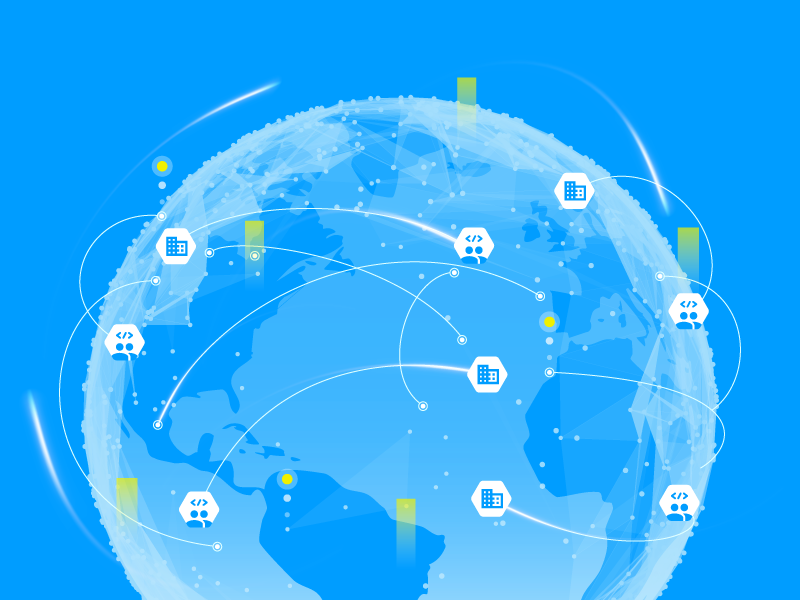
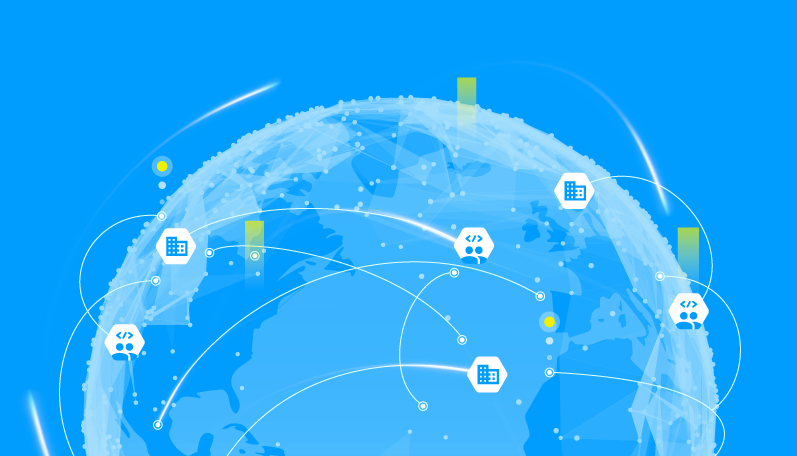
Slider Nav working and styled, arrows and content need fixing

diff --git a/css/main.min.css b/css/main.min.css
@@ -1,1 +1,1 @@
-button,hr,input{overflow:visible}progress,sub,sup{vertical-align:baseline}.unslider-fade,.unslider-wrap,sub,sup{position:relative}details,figure img{display:block}.btn,a{background-color:transparent}html{line-height:1.15;-webkit-text-size-adjust:100%}h1{font-size:2em;margin:.67em 0}hr{-webkit-box-sizing:content-box;box-sizing:content-box;height:0}code,kbd,pre,samp{font-family:monospace,monospace;font-size:1em}abbr[title]{border-bottom:none;-webkit-text-decoration:underline dotted;text-decoration:underline dotted}.btn,.footer-item,.mainNav-item{text-decoration:none}b,strong{font-weight:bolder}small{font-size:80%}sub,sup{font-size:75%;line-height:0}sub{bottom:-.25em}sup{top:-.5em}img{border-style:none}button,input,optgroup,select,textarea{font-family:inherit;font-size:100%;line-height:1.15;margin:0}.unslider,textarea{overflow:auto}button,select{text-transform:none}.btn,.tag{text-transform:uppercase}[type=button],[type=reset],[type=submit],button{-webkit-appearance:button}[type=button]::-moz-focus-inner,[type=reset]::-moz-focus-inner,[type=submit]::-moz-focus-inner,button::-moz-focus-inner{border-style:none;padding:0}[type=button]-moz-focusring,[type=reset]-moz-focusring,[type=submit]-moz-focusring,button:-moz-focusring{outline:ButtonText dotted 1px}fieldset{padding:.35em .75em .625em}legend{-webkit-box-sizing:border-box;box-sizing:border-box;color:inherit;display:table;max-width:100%;padding:0;white-space:normal}[type=checkbox],[type=radio]{-webkit-box-sizing:border-box;box-sizing:border-box;padding:0}[type=number]::-webkit-inner-spin-button,[type=number]::-webkit-outer-spin-button{height:auto}[type=search]{-webkit-appearance:textfield;outline-offset:-2px}[type=search]::-webkit-search-decoration{-webkit-appearance:none}::-webkit-file-upload-button{-webkit-appearance:button;font:inherit}.title,.title--main,p{letter-spacing:0;line-height:30px}.tag,.title,.title--main,p{font-family:Roboto;color:#13293f}summary{display:list-item}[hidden],template{display:none}.unslider{margin:0;padding:0}.unslider-wrap.unslider-carousel>li{float:left}.unslider-vertical>ul{height:100%}.unslider-vertical li{float:none;width:100%}.unslider-fade .unslider-wrap li{position:absolute;left:0;top:0;right:0;z-index:8}.unslider-fade .unslider-wrap li.unslider-active{z-index:10}.unslider li,.unslider ol,.unslider ul{list-style:none;margin:0;padding:0;border:none}.unslider-arrow{left:20px;z-index:2;cursor:pointer}.unslider-arrow.next{left:auto;right:20px}.title{font-size:1.25rem}.title--main{font-size:1.5rem}p{font-size:1rem}.tag{font-size:.87rem;letter-spacing:.5px;line-height:21px}.tag--primary{color:#008df2}.tag--highlight{color:#f0f000}*,:after,:before{-webkit-box-sizing:border-box;box-sizing:border-box}body{margin:0;-webkit-font-smoothing:antialiased;font-family:Roboto,sans-serif;text-rendering:optimizeLegibility;font-size:1rem}figure{padding:0;margin:0}figure img{width:100%}.btn{border:none;display:inline-block;border-radius:4px;height:2.5rem}.callToAction,.feature{display:-webkit-box;display:-ms-flexbox}.btn--primary{color:#fff;background-color:#008df2}.callToAction{width:100%;display:flex;-webkit-box-pack:justify;-ms-flex-pack:justify;justify-content:space-between;-webkit-box-align:center;-ms-flex-align:center;align-items:center;position:relative;height:500px}.callToAction-col{width:calc(99.9% * 1/2 - (30px - 30px * 1/2));text-align:center;-webkit-box-align:center;-ms-flex-align:center;align-items:center}.callToAction-col:nth-child(1n){float:left;margin-right:30px;clear:none}.callToAction-col:last-child{margin-right:0}.callToAction-col:nth-child(2n){margin-right:0;float:right}.callToAction-col:nth-child(2n+1){clear:both}.feature{display:flex;-webkit-box-align:center;-ms-flex-align:center;align-items:center;-webkit-box-pack:justify;-ms-flex-pack:justify;justify-content:space-between}.features,.footer{padding-left:calc(50% - (1140px / 2));padding-right:calc(50% - (1140px / 2));display:-webkit-box;display:-ms-flexbox}.feature-description{width:calc(99.9% * 1/3 - (30px - 30px * 1/3));margin-right:auto}.feature-description:nth-child(1n){float:left;margin-right:30px;clear:none}.feature-description:last-child{margin-right:0}.feature-description:nth-child(3n){margin-right:0;float:right}.feature-description:nth-child(3n+1){clear:both}.feature-img{width:calc(99.9% * 2/3 - (30px - 30px * 2/3))}.feature-img:nth-child(1n){float:left;margin-right:30px;clear:none}.feature-img:last-child{margin-right:0}.feature-img:nth-child(3n){margin-right:0;float:right}.feature-img:nth-child(3n+1){clear:both}.features{display:flex;-ms-flex-wrap:wrap;flex-wrap:wrap;-webkit-box-align:center;-ms-flex-align:center;align-items:center}.features--center{display:inline-block;text-align:center;background:url(/img/eliot-collaboration.png) no-repeat #008df2;height:100vh}.footer{display:flex;-ms-flex-wrap:wrap;flex-wrap:wrap;background-color:transparent;padding-top:1.5rem;padding-bottom:1.5rem;-webkit-box-align:center;-ms-flex-align:center;align-items:center;position:relative;overflow:hidden}.header,.mainNav{display:-webkit-box;display:-ms-flexbox;-webkit-box-align:center}.footer ul{list-style:none;padding-left:0}.header,.walkThrough{padding-left:calc(50% - (1140px / 2));padding-right:calc(50% - (1140px / 2))}.footer-item{color:#3e78b3}.footer-item:hover{color:#0f3b66}.footer:before{content:'';height:800px;background-color:#e6edf2;position:absolute;top:300px;left:0;right:0;-webkit-transform:skew(0,-12deg);transform:skew(0,-12deg);z-index:-100}.footer-col{padding-top:3%;width:calc(99.9% * 1/6 - (30px - 30px * 1/6))}.footer-col:nth-child(1n){float:left;margin-right:30px;clear:none}.footer-col:last-child{margin-right:0}.footer-col:nth-child(6n){margin-right:0;float:right}.footer-col:nth-child(6n+1){clear:both}.footer-col--brand{margin-right:auto}.header{display:flex;-ms-flex-align:center;align-items:center;-webkit-box-pack:justify;-ms-flex-pack:justify;justify-content:space-between;position:fixed;top:2rem;right:0;left:0}.logo{display:block}.logo--footer,.logo--header{max-width:165px}.mainNav{display:flex;-ms-flex-align:center;align-items:center;padding-top:1%}.unslider-nav,.unslider-nav ol{display:-webkit-box;display:-ms-flexbox}.social,.walkThrough{-webkit-box-align:center}.mainNav-item{margin-left:.75rem;margin-right:.75rem;color:#b8cfe6}.social{-ms-flex-align:center;align-items:center}.social-icon{margin-right:1.5rem}.unslider-nav{display:flex;color:#fff;text-align:center}.unslider-nav ol{display:flex;margin:auto}.unslider-arrow{position:absolute;top:20}.walkThrough{background-color:#008df2;-ms-flex-align:center;align-items:center}.walkThrough li{display:-webkit-box;display:-ms-flexbox;display:flex}.walkThrough-description{-webkit-box-align:center;-ms-flex-align:center;align-items:center;margin:auto;color:#fff}.walkThrough-img{width:calc(99.9% * 2/3 - (30px - 30px * 2/3))}.walkThrough-img:nth-child(1n){float:left;margin-right:30px;clear:none}.walkThrough-img:last-child{margin-right:0}.walkThrough-img:nth-child(3n){margin-right:0;float:right}.walkThrough-img:nth-child(3n+1){clear:both}.walkThrough-img img{width:700px}
+button,hr,input{overflow:visible}progress,sub,sup{vertical-align:baseline}.unslider-fade,.unslider-wrap,sub,sup{position:relative}details,figure img{display:block}.footer ul,.unslider-nav ol{list-style:none}.about,.callToAction-col,.features--center,.home-main,.unslider-nav ol{text-align:center}html{line-height:1.15;-webkit-text-size-adjust:100%}h1{font-size:2em;margin:.67em 0}hr{-webkit-box-sizing:content-box;box-sizing:content-box;height:0}code,kbd,pre,samp{font-family:monospace,monospace;font-size:1em}a{background-color:transparent}abbr[title]{border-bottom:none;-webkit-text-decoration:underline dotted;text-decoration:underline dotted}.btn,.footer-item,.mainNav-item{text-decoration:none}b,strong{font-weight:bolder}small{font-size:80%}sub,sup{font-size:75%;line-height:0}sub{bottom:-.25em}sup{top:-.5em}img{border-style:none}button,input,optgroup,select,textarea{font-family:inherit;font-size:100%;line-height:1.15;margin:0}.unslider,textarea{overflow:auto}button,select{text-transform:none}.btn,.tag{text-transform:uppercase}[type=button],[type=reset],[type=submit],button{-webkit-appearance:button}[type=button]::-moz-focus-inner,[type=reset]::-moz-focus-inner,[type=submit]::-moz-focus-inner,button::-moz-focus-inner{border-style:none;padding:0}[type=button]-moz-focusring,[type=reset]-moz-focusring,[type=submit]-moz-focusring,button:-moz-focusring{outline:ButtonText dotted 1px}fieldset{padding:.35em .75em .625em}legend{-webkit-box-sizing:border-box;box-sizing:border-box;color:inherit;display:table;max-width:100%;padding:0;white-space:normal}[type=checkbox],[type=radio]{-webkit-box-sizing:border-box;box-sizing:border-box;padding:0}[type=number]::-webkit-inner-spin-button,[type=number]::-webkit-outer-spin-button{height:auto}[type=search]{-webkit-appearance:textfield;outline-offset:-2px}[type=search]::-webkit-search-decoration{-webkit-appearance:none}::-webkit-file-upload-button{-webkit-appearance:button;font:inherit}.title,.title--main,p{letter-spacing:0;line-height:30px}.tag,.title,.title--main,p{font-family:Roboto;color:#13293f}summary{display:list-item}[hidden],template{display:none}.unslider{margin:0;padding:0}.unslider-wrap.unslider-carousel>li{float:left}.unslider-vertical>ul{height:100%}.unslider-vertical li{float:none;width:100%}.unslider-fade .unslider-wrap li{position:absolute;left:0;top:0;right:0;z-index:8}.unslider-fade .unslider-wrap li.unslider-active{z-index:10}.unslider li,.unslider ol,.unslider ul{list-style:none;margin:0;padding:0;border:none}.unslider-arrow{left:20px;z-index:2;cursor:pointer}.unslider-arrow.next{left:auto;right:20px}.title{font-size:1.25rem}.title--main{font-size:1.5rem}p{font-size:1rem}.tag{font-size:.87rem;letter-spacing:.5px;line-height:21px}.tag--primary{color:#008df2}.tag--highlight{color:#f0f000}*,:after,:before{-webkit-box-sizing:border-box;box-sizing:border-box}body{margin:0;-webkit-font-smoothing:antialiased;font-family:Roboto,sans-serif;text-rendering:optimizeLegibility;font-size:1rem}figure{padding:0;margin:0}figure img{width:100%}.about{padding-left:calc(50% - (1140px / 2));padding-right:calc(50% - (1140px / 2));height:100vh;background:url(/img/eliot-about.png) center bottom no-repeat}.about .title{color:#008df2}.btn{background-color:transparent;border:none;display:inline-block;border-radius:4px;height:2.5rem}.callToAction,.feature{display:-webkit-box;display:-ms-flexbox}.btn--primary{color:#fff;background-color:#008df2}.callToAction{width:100%;display:flex;-webkit-box-pack:justify;-ms-flex-pack:justify;justify-content:space-between;-webkit-box-align:center;-ms-flex-align:center;align-items:center;position:relative;height:500px}.callToAction-col{width:calc(99.9% * 1/2 - (30px - 30px * 1/2));-webkit-box-align:center;-ms-flex-align:center;align-items:center}.feature,.header{-webkit-box-align:center}.callToAction-col:nth-child(1n){float:left;margin-right:30px;clear:none}.callToAction-col:last-child{margin-right:0}.callToAction-col:nth-child(2n){margin-right:0;float:right}.callToAction-col:nth-child(2n+1){clear:both}.feature{display:flex;-ms-flex-align:center;align-items:center;-webkit-box-pack:justify;-ms-flex-pack:justify;justify-content:space-between}.features,.footer{padding-left:calc(50% - (1140px / 2));display:-webkit-box;display:-ms-flexbox;padding-right:calc(50% - (1140px / 2))}.feature-description{width:calc(99.9% * 1/3 - (30px - 30px * 1/3));margin-right:auto}.feature-description:nth-child(1n){float:left;margin-right:30px;clear:none}.feature-description:last-child{margin-right:0}.feature-description:nth-child(3n){margin-right:0;float:right}.feature-description:nth-child(3n+1){clear:both}.feature-img{width:calc(99.9% * 2/3 - (30px - 30px * 2/3))}.feature-img:nth-child(1n){float:left;margin-right:30px;clear:none}.feature-img:last-child{margin-right:0}.feature-img:nth-child(3n){margin-right:0;float:right}.feature-img:nth-child(3n+1){clear:both}.features{display:flex;-ms-flex-wrap:wrap;flex-wrap:wrap;-webkit-box-align:center;-ms-flex-align:center;align-items:center}.features--center{display:inline-block;background:url(/img/eliot-collaboration.png) center bottom no-repeat #008df2;height:100vh}.features--center .tag{color:#fff}.footer{display:flex;-ms-flex-wrap:wrap;flex-wrap:wrap;background-color:transparent;padding-top:1.5rem;padding-bottom:1.5rem;-webkit-box-align:center;-ms-flex-align:center;align-items:center;position:relative;overflow:hidden}.footer ul{padding-left:0}.footer-item{color:#3e78b3}.footer-item:hover{color:#0f3b66}.footer:before{content:'';height:800px;background-color:#e6edf2;position:absolute;top:300px;left:0;right:0;-webkit-transform:skew(0,-12deg);transform:skew(0,-12deg);z-index:-100}.footer-col{padding-top:3%;width:calc(99.9% * 1/6 - (30px - 30px * 1/6))}.footer-col:nth-child(1n){float:left;margin-right:30px;clear:none}.footer-col:last-child{margin-right:0}.footer-col:nth-child(6n){margin-right:0;float:right}.footer-col:nth-child(6n+1){clear:both}.footer-col--brand{margin-right:auto}.header{padding-left:calc(50% - (1140px / 2));padding-right:calc(50% - (1140px / 2));display:-webkit-box;display:-ms-flexbox;display:flex;-ms-flex-align:center;align-items:center;-webkit-box-pack:justify;-ms-flex-pack:justify;justify-content:space-between;position:fixed;top:2rem;right:0;left:0}.home-main,.mainNav{-webkit-box-align:center}.home-main{background:url(/img/main.png) no-repeat;-ms-flex-align:center;align-items:center}.logo{display:block}.logo--footer,.logo--header{max-width:165px}.mainNav{display:-webkit-box;display:-ms-flexbox;display:flex;-ms-flex-align:center;align-items:center;padding-top:1%}.social,.walkThrough{-webkit-box-align:center}.mainNav-item{margin-left:.75rem;margin-right:.75rem;color:#b8cfe6}.social{-ms-flex-align:center;align-items:center}.social-icon{margin-right:1.5rem}.unslider-nav{width:100%;border-bottom:1px solid #fff;padding:30px 0;position:absolute;top:0}.unslider-nav ol li{display:inline-block;cursor:pointer;color:#fff;margin:0 20px;position:relative;z-index:2}.unslider-nav ol li::before{background-color:#fff;display:inline-block;width:30px;height:30px;border-radius:50%;content:" ";position:relative;left:24px;top:8px;z-index:-1}.unslider-arrow{position:absolute;top:50%;-webkit-transform:translateY(-50%);transform:translateY(-50%)}.walkThrough .unslider,.walkThrough-slider{position:relative}.unslider-active{font-weight:900}.walkThrough{background-color:#008df2;-ms-flex-align:center;align-items:center}.walkThrough-description{-webkit-box-align:center;-ms-flex-align:center;align-items:center;margin:auto;color:#fff}.walkThrough-img{width:calc(99.9% * 2/3 - (30px - 30px * 2/3))}.walkThrough-img:nth-child(1n){float:left;margin-right:30px;clear:none}.walkThrough-img:last-child{margin-right:0}.walkThrough-img:nth-child(3n){margin-right:0;float:right}.walkThrough-img:nth-child(3n+1){clear:both}.walkThrough-img img{width:700px}.walkThrough-slider>ul{margin-top:100px}

diff --git a/js/main.min.js b/js/main.min.js
@@ -1,1 +1,1 @@
-!function(t){"object"==typeof module&&"object"==typeof module.exports?t(require("jquery")):"function"==typeof define&&define.amd?define([],t(window.jQuery)):t(window.jQuery)}(function(s){if(!s)return console.warn("Unslider needs jQuery");s.Unslider=function(t,n){var o=this;return o._="unslider",o.defaults={autoplay:!1,delay:3e3,speed:750,easing:"swing",keys:{prev:37,next:39},nav:!0,arrows:{prev:'<a class="'+o._+'-arrow prev">Prev</a>',next:'<a class="'+o._+'-arrow next">Next</a>'},animation:"horizontal",selectors:{container:"ul:first",slides:"li"},animateHeight:!1,activeClass:o._+"-active",swipe:!0,swipeThreshold:.2},o.$context=t,o.options={},o.$parent=null,o.$container=null,o.$slides=null,o.$nav=null,o.$arrows=[],o.total=0,o.current=0,o.prefix=o._+"-",o.eventSuffix="."+o.prefix+~~(2e3*Math.random()),o.interval=[],o.init=function(t){return o.options=s.extend({},o.defaults,t),o.$container=o.$context.find(o.options.selectors.container).addClass(o.prefix+"wrap"),o.$slides=o.$container.children(o.options.selectors.slides),o.setup(),s.each(["nav","arrows","keys","infinite"],function(t,n){o.options[n]&&o["init"+s._ucfirst(n)]()}),jQuery.event.special.swipe&&o.options.swipe&&o.initSwipe(),o.options.autoplay&&o.start(),o.calculateSlides(),o.$context.trigger(o._+".ready"),o.animate(o.options.index||o.current,"init")},o.setup=function(){o.$context.addClass(o.prefix+o.options.animation).wrap('<div class="'+o._+'" />'),o.$parent=o.$context.parent("."+o._),"static"===o.$context.css("position")&&o.$context.css("position","relative"),o.$context.css("overflow","hidden")},o.calculateSlides=function(){if(o.$slides=o.$container.children(o.options.selectors.slides),o.total=o.$slides.length,"fade"!==o.options.animation){var t="width";"vertical"===o.options.animation&&(t="height"),o.$container.css(t,100*o.total+"%").addClass(o.prefix+"carousel"),o.$slides.css(t,100/o.total+"%")}},o.start=function(){return o.interval.push(setTimeout(function(){o.next()},o.options.delay)),o},o.stop=function(){for(var t;t=o.interval.pop();)clearTimeout(t);return o},o.initNav=function(){var e=s('<nav class="'+o.prefix+'nav"><ol /></nav>');o.$slides.each(function(t){var n=this.getAttribute("data-nav")||t+1;s.isFunction(o.options.nav)&&(n=o.options.nav.call(o.$slides.eq(t),t,n)),e.children("ol").append('<li data-slide="'+t+'">'+n+"</li>")}),o.$nav=e.insertAfter(o.$context),o.$nav.find("li").on("click"+o.eventSuffix,function(){var t=s(this).addClass(o.options.activeClass);t.siblings().removeClass(o.options.activeClass),o.animate(t.attr("data-slide"))})},o.initArrows=function(){!0===o.options.arrows&&(o.options.arrows=o.defaults.arrows),s.each(o.options.arrows,function(t,n){o.$arrows.push(s(n).insertAfter(o.$context).on("click"+o.eventSuffix,o[t]))})},o.initKeys=function(){!0===o.options.keys&&(o.options.keys=o.defaults.keys),s(document).on("keyup"+o.eventSuffix,function(e){s.each(o.options.keys,function(t,n){e.which===n&&s.isFunction(o[t])&&o[t].call(o)})})},o.initSwipe=function(){var n=o.$slides.width();"fade"!==o.options.animation&&o.$container.on({movestart:function(t){if(t.distX>t.distY&&t.distX<-t.distY||t.distX<t.distY&&t.distX>-t.distY)return!!t.preventDefault();o.$container.css("position","relative")},move:function(t){o.$container.css("left",-100*o.current+100*t.distX/n+"%")},moveend:function(t){Math.abs(t.distX)/n>o.options.swipeThreshold?o[t.distX<0?"next":"prev"]():o.$container.animate({left:-100*o.current+"%"},o.options.speed/2)}})},o.initInfinite=function(){var e=["first","last"];s.each(e,function(t,n){o.$slides.push.apply(o.$slides,o.$slides.filter(':not(".'+o._+'-clone")')[n]().clone().addClass(o._+"-clone")["insert"+(0===t?"After":"Before")](o.$slides[e[~~!t]]()))})},o.destroyArrows=function(){s.each(o.$arrows,function(t,n){n.remove()})},o.destroySwipe=function(){o.$container.off("movestart move moveend")},o.destroyKeys=function(){s(document).off("keyup"+o.eventSuffix)},o.setIndex=function(t){return t<0&&(t=o.total-1),o.current=Math.min(Math.max(0,t),o.total-1),o.options.nav&&o.$nav.find('[data-slide="'+o.current+'"]')._active(o.options.activeClass),o.$slides.eq(o.current)._active(o.options.activeClass),o},o.animate=function(t,n){if("first"===t&&(t=0),"last"===t&&(t=o.total),isNaN(t))return o;o.options.autoplay&&o.stop().start(),o.setIndex(t),o.$context.trigger(o._+".change",[t,o.$slides.eq(t)]);var e="animate"+s._ucfirst(o.options.animation);return s.isFunction(o[e])&&o[e](o.current,n),o},o.next=function(){var t=o.current+1;return t>=o.total&&(t=o.options.noloop&&!o.options.infinite?o.total-1:0),o.animate(t,"next")},o.prev=function(){var t=o.current-1;return t<0&&(t=o.options.noloop&&!o.options.infinite?0:o.total-1),o.animate(t,"prev")},o.animateHorizontal=function(t){var n="left";return"rtl"===o.$context.attr("dir")&&(n="right"),o.options.infinite&&o.$container.css("margin-"+n,"-100%"),o.slide(n,t)},o.animateVertical=function(t){return o.options.animateHeight=!0,o.options.infinite&&o.$container.css("margin-top",-o.$slides.outerHeight()),o.slide("top",t)},o.slide=function(t,n){var e;(o.animateHeight(n),o.options.infinite)&&(n===o.total-1&&(e=o.total-3,n=-1),n===o.total-2&&(e=0,n=o.total-2),"number"==typeof e&&(o.setIndex(e),o.$context.on(o._+".moved",function(){o.current===e&&o.$container.css(t,-100*e+"%").off(o._+".moved")})));var i={};return i[t]=-100*n+"%",o._move(o.$container,i)},o.animateFade=function(t){o.animateHeight(t);var n=o.$slides.eq(t).addClass(o.options.activeClass);o._move(n.siblings().removeClass(o.options.activeClass),{opacity:0}),o._move(n,{opacity:1},!1)},o.animateHeight=function(t){o.options.animateHeight&&o._move(o.$context,{height:o.$slides.eq(t).outerHeight()},!1)},o._move=function(t,n,e,i){return!1!==e&&(e=function(){o.$context.trigger(o._+".moved")}),t._move(n,i||o.options.speed,o.options.easing,e)},o.init(n)},s.fn._active=function(t){return this.addClass(t).siblings().removeClass(t)},s._ucfirst=function(t){return(t+"").toLowerCase().replace(/^./,function(t){return t.toUpperCase()})},s.fn._move=function(){return this.stop(!0,!0),s.fn[s.fn.velocity?"velocity":"animate"].apply(this,arguments)},s.fn.unslider=function(o){return this.each(function(t,n){var e=s(n);if(!(s(n).data("unslider")instanceof s.Unslider)){if("string"==typeof o&&e.data("unslider")){o=o.split(":");var i=e.data("unslider")[o[0]];if(s.isFunction(i))return i.apply(e,o[1]?o[1].split(","):null)}return e.data("unslider",new s.Unslider(e,o))}})}}),$(document).ready(function(){jQuery(document).ready(function(t){t(".walkThrough-slider").unslider({autoplay:!0,infinite:!0,nav:!0,arrows:{prev:'<a class="unslider-arrow prev"><img src="/img/arrow-left.svg" alt="" /></a>',next:'<a class="unslider-arrow next"><img src="/img/arrow-right.svg" alt="" /></a>'}})})});
+!function(t){"object"==typeof module&&"object"==typeof module.exports?t(require("jquery")):"function"==typeof define&&define.amd?define([],t(window.jQuery)):t(window.jQuery)}(function(s){if(!s)return console.warn("Unslider needs jQuery");s.Unslider=function(t,n){var o=this;return o._="unslider",o.defaults={autoplay:!1,delay:3e3,speed:750,easing:"swing",keys:{prev:37,next:39},nav:!0,arrows:{prev:'<a class="'+o._+'-arrow prev">Prev</a>',next:'<a class="'+o._+'-arrow next">Next</a>'},animation:"horizontal",selectors:{container:"ul:first",slides:"li"},animateHeight:!1,activeClass:o._+"-active",swipe:!0,swipeThreshold:.2},o.$context=t,o.options={},o.$parent=null,o.$container=null,o.$slides=null,o.$nav=null,o.$arrows=[],o.total=0,o.current=0,o.prefix=o._+"-",o.eventSuffix="."+o.prefix+~~(2e3*Math.random()),o.interval=[],o.init=function(t){return o.options=s.extend({},o.defaults,t),o.$container=o.$context.find(o.options.selectors.container).addClass(o.prefix+"wrap"),o.$slides=o.$container.children(o.options.selectors.slides),o.setup(),s.each(["nav","arrows","keys","infinite"],function(t,n){o.options[n]&&o["init"+s._ucfirst(n)]()}),jQuery.event.special.swipe&&o.options.swipe&&o.initSwipe(),o.options.autoplay&&o.start(),o.calculateSlides(),o.$context.trigger(o._+".ready"),o.animate(o.options.index||o.current,"init")},o.setup=function(){o.$context.addClass(o.prefix+o.options.animation).wrap('<div class="'+o._+'" />'),o.$parent=o.$context.parent("."+o._),"static"===o.$context.css("position")&&o.$context.css("position","relative"),o.$context.css("overflow","hidden")},o.calculateSlides=function(){if(o.$slides=o.$container.children(o.options.selectors.slides),o.total=o.$slides.length,"fade"!==o.options.animation){var t="width";"vertical"===o.options.animation&&(t="height"),o.$container.css(t,100*o.total+"%").addClass(o.prefix+"carousel"),o.$slides.css(t,100/o.total+"%")}},o.start=function(){return o.interval.push(setTimeout(function(){o.next()},o.options.delay)),o},o.stop=function(){for(var t;t=o.interval.pop();)clearTimeout(t);return o},o.initNav=function(){var e=s('<nav class="'+o.prefix+'nav"><ol /></nav>');o.$slides.each(function(t){var n=this.getAttribute("data-nav")||t+1;s.isFunction(o.options.nav)&&(n=o.options.nav.call(o.$slides.eq(t),t,n)),e.children("ol").append('<li data-slide="'+t+'">'+n+"</li>")}),o.$nav=e.insertAfter(o.$context),o.$nav.find("li").on("click"+o.eventSuffix,function(){var t=s(this).addClass(o.options.activeClass);t.siblings().removeClass(o.options.activeClass),o.animate(t.attr("data-slide"))})},o.initArrows=function(){!0===o.options.arrows&&(o.options.arrows=o.defaults.arrows),s.each(o.options.arrows,function(t,n){o.$arrows.push(s(n).insertAfter(o.$context).on("click"+o.eventSuffix,o[t]))})},o.initKeys=function(){!0===o.options.keys&&(o.options.keys=o.defaults.keys),s(document).on("keyup"+o.eventSuffix,function(e){s.each(o.options.keys,function(t,n){e.which===n&&s.isFunction(o[t])&&o[t].call(o)})})},o.initSwipe=function(){var n=o.$slides.width();"fade"!==o.options.animation&&o.$container.on({movestart:function(t){if(t.distX>t.distY&&t.distX<-t.distY||t.distX<t.distY&&t.distX>-t.distY)return!!t.preventDefault();o.$container.css("position","relative")},move:function(t){o.$container.css("left",-100*o.current+100*t.distX/n+"%")},moveend:function(t){Math.abs(t.distX)/n>o.options.swipeThreshold?o[t.distX<0?"next":"prev"]():o.$container.animate({left:-100*o.current+"%"},o.options.speed/2)}})},o.initInfinite=function(){var e=["first","last"];s.each(e,function(t,n){o.$slides.push.apply(o.$slides,o.$slides.filter(':not(".'+o._+'-clone")')[n]().clone().addClass(o._+"-clone")["insert"+(0===t?"After":"Before")](o.$slides[e[~~!t]]()))})},o.destroyArrows=function(){s.each(o.$arrows,function(t,n){n.remove()})},o.destroySwipe=function(){o.$container.off("movestart move moveend")},o.destroyKeys=function(){s(document).off("keyup"+o.eventSuffix)},o.setIndex=function(t){return t<0&&(t=o.total-1),o.current=Math.min(Math.max(0,t),o.total-1),o.options.nav&&o.$nav.find('[data-slide="'+o.current+'"]')._active(o.options.activeClass),o.$slides.eq(o.current)._active(o.options.activeClass),o},o.animate=function(t,n){if("first"===t&&(t=0),"last"===t&&(t=o.total),isNaN(t))return o;o.options.autoplay&&o.stop().start(),o.setIndex(t),o.$context.trigger(o._+".change",[t,o.$slides.eq(t)]);var e="animate"+s._ucfirst(o.options.animation);return s.isFunction(o[e])&&o[e](o.current,n),o},o.next=function(){var t=o.current+1;return t>=o.total&&(t=o.options.noloop&&!o.options.infinite?o.total-1:0),o.animate(t,"next")},o.prev=function(){var t=o.current-1;return t<0&&(t=o.options.noloop&&!o.options.infinite?0:o.total-1),o.animate(t,"prev")},o.animateHorizontal=function(t){var n="left";return"rtl"===o.$context.attr("dir")&&(n="right"),o.options.infinite&&o.$container.css("margin-"+n,"-100%"),o.slide(n,t)},o.animateVertical=function(t){return o.options.animateHeight=!0,o.options.infinite&&o.$container.css("margin-top",-o.$slides.outerHeight()),o.slide("top",t)},o.slide=function(t,n){var e;(o.animateHeight(n),o.options.infinite)&&(n===o.total-1&&(e=o.total-3,n=-1),n===o.total-2&&(e=0,n=o.total-2),"number"==typeof e&&(o.setIndex(e),o.$context.on(o._+".moved",function(){o.current===e&&o.$container.css(t,-100*e+"%").off(o._+".moved")})));var i={};return i[t]=-100*n+"%",o._move(o.$container,i)},o.animateFade=function(t){o.animateHeight(t);var n=o.$slides.eq(t).addClass(o.options.activeClass);o._move(n.siblings().removeClass(o.options.activeClass),{opacity:0}),o._move(n,{opacity:1},!1)},o.animateHeight=function(t){o.options.animateHeight&&o._move(o.$context,{height:o.$slides.eq(t).outerHeight()},!1)},o._move=function(t,n,e,i){return!1!==e&&(e=function(){o.$context.trigger(o._+".moved")}),t._move(n,i||o.options.speed,o.options.easing,e)},o.init(n)},s.fn._active=function(t){return this.addClass(t).siblings().removeClass(t)},s._ucfirst=function(t){return(t+"").toLowerCase().replace(/^./,function(t){return t.toUpperCase()})},s.fn._move=function(){return this.stop(!0,!0),s.fn[s.fn.velocity?"velocity":"animate"].apply(this,arguments)},s.fn.unslider=function(o){return this.each(function(t,n){var e=s(n);if(!(s(n).data("unslider")instanceof s.Unslider)){if("string"==typeof o&&e.data("unslider")){o=o.split(":");var i=e.data("unslider")[o[0]];if(s.isFunction(i))return i.apply(e,o[1]?o[1].split(","):null)}return e.data("unslider",new s.Unslider(e,o))}})}}),$(document).ready(function(){jQuery(document).ready(function(t){t(".walkThrough-slider").unslider({autoplay:!1,infinite:!0,nav:!0,arrows:{prev:'<a class="unslider-arrow prev"><img src="/img/arrow-left.svg" alt="" /></a>',next:'<a class="unslider-arrow next"><img src="/img/arrow-right.svg" alt="" /></a>'}})})});

diff --git a/index.html b/index.html
@@ -5,11 +5,11 @@
   <meta name="viewport" content="width=device-width, initial-scale=1.0">
   <meta http-equiv="X-UA-Compatible" content="ie=edge">
   <!-- Google Tag Manager -->
-  <script>(function(w,d,s,l,i){w[l]=w[l]||[];w[l].push({'gtm.start':
+<!--   <script>(function(w,d,s,l,i){w[l]=w[l]||[];w[l].push({'gtm.start':
   new Date().getTime(),event:'gtm.js'});var f=d.getElementsByTagName(s)[0],
   j=d.createElement(s),dl=l!='dataLayer'?'&l='+l:'';j.async=true;j.src=
   'https://www.googletagmanager.com/gtm.js?id='+i+dl;f.parentNode.insertBefore(j,f);
-  })(window,document,'script','dataLayer','GTM-KG347VN');</script>
+  })(window,document,'script','dataLayer','GTM-KG347VN');</script> -->
   <!-- End Google Tag Manager -->
   <title>Valiot Website</title>
   <link href="https://fonts.googleapis.com/css?family=Roboto" rel="stylesheet">
@@ -17,8 +17,8 @@
 </head>
 <body>
   <!-- Google Tag Manager (noscript) -->
-  <noscript><iframe src="https://www.googletagmanager.com/ns.html?id=GTM-KG347VN"
-  height="0" width="0" style="display:none;visibility:hidden"></iframe></noscript>
+<!--   <noscript><iframe src="https://www.googletagmanager.com/ns.html?id=GTM-KG347VN"
+  height="0" width="0" style="display:none;visibility:hidden"></iframe></noscript> -->
   <!-- End Google Tag Manager (noscript) -->
   <header class="header">
   	<a class="logo" href="#0">
@@ -35,7 +35,7 @@
     </nav>
   </header>
 
-  <section class="main">
+  <section class="home-main">
   		<p class="tag">The easiest way into Industry 4.0</p>
   		<h1 class="title title--main">Start your digital transformation today</h1>
   		<button class="btn btn--secondary">Start free now</button>
@@ -43,32 +43,30 @@
 
 	<section class="about">
 		<h2 class="title" >Quick start to digital transformation</h2>
-		<p>Easily digitizes manufacturing processes and connect your company with the best developers for easy integration with new technologies.</p>
+		<p>Easily digitizes manufacturing processes and connect your company<br> with the best developers for easy integration with new technologies.</p>
   </section>
 
   <section class="walkThrough">
 
 		<div class="walkThrough-slider">
 			<ul>
-				<li data-nav="📝Setup">
-					<div class="walkThrough-description">
-						<p class="tag">SETUP</p>
-						<h2 class="title">Data capture or something...</h2>
-						<p>Da de alta la información de tu empresa. Go down each item on your list. Start writing a rugh outlin of everything you know about the topic.</p>
-						<ul>
-							<li><i></i>Users</li>
-							<li><i></i>Machines</li>
-							<li><i></i>Sensors</li>
-							<li><i></i>Products</li>
-							<li><i></i>Processes</li>
-							<li><i></i>Admins</li>
-						</ul>
-					</div>
+				<li data-nav="📝 &nbsp;&nbsp;&nbsp;&nbsp;&nbsp;&nbsp;Setup">
+					<p class="tag">SETUP</p>
+          <h2 class="title">Data capture or something...</h2>
+          <p>Da de alta la información de tu empresa. Go down each item on your list. Start writing a rugh outlin of everything you know about the topic.</p>
+          <ul>
+            <li><i></i>Users</li>
+            <li><i></i>Machines</li>
+            <li><i></i>Sensors</li>
+            <li><i></i>Products</li>
+            <li><i></i>Processes</li>
+            <li><i></i>Admins</li>
+          </ul>
 					<figure class="walkThrough-img">
 						<img src="/img/eliot-setup.png">
 					</figure>
 				</li>
-				<li data-nav="⚙Configuration">
+				<li data-nav="⚙ &nbsp;&nbsp;&nbsp;&nbsp;&nbsp;&nbsp;Configuration">
 					<div class="walkThrough-description">
 						<p class="tag">Configuration</p>
 						<h2 class="title">Data capture or something...</h2>
@@ -86,7 +84,7 @@
 						<img src="/img/eliot-setup.png">
 					</figure>
 				</li>
-				<li data-nav="👨🏻💻Admin">
+				<li data-nav="👨🏻💻 &nbsp;&nbsp;&nbsp;&nbsp;&nbsp;&nbsp;Admin">
 					<div class="walkThrough-description">
 						<p class="tag">Admin</p>
 						<h2 class="title">Data capture or something...</h2>
@@ -220,6 +218,6 @@
 		</div>
   </footer>
   <script src="//code.jquery.com/jquery-2.1.4.min.js"></script>
-  <script src="/js/main.js"></script>
+  <script src="js/main.js"></script>
 </body>
 </html>

diff --git a/css/main.css b/css/main.css
@@ -251,6 +251,16 @@ figure img {
   width: 100%;
   display: block;
 }
+.about {
+  padding-left: calc(50% - (1140px / 2));
+  padding-right: calc(50% - (1140px / 2));
+  height: 100vh;
+  background: url("/img/eliot-about.png") no-repeat center bottom;
+  text-align: center;
+}
+.about .title {
+  color: #008df2;
+}
 .btn {
   background-color: transparent;
   border: none;
@@ -363,8 +373,11 @@ figure img {
 .features--center {
   display: inline-block;
   text-align: center;
-  background: #008df2 url("/img/eliot-collaboration.png") no-repeat;
+  background: #008df2 url("/img/eliot-collaboration.png") no-repeat center bottom;
   height: 100vh;
+}
+.features--center .tag {
+  color: #fff;
 }
 .footer {
   padding-left: calc(50% - (1140px / 2));
@@ -445,6 +458,13 @@ figure img {
   right: 0;
   left: 0;
 }
+.home-main {
+  background: url("/img/main.png") no-repeat;
+  text-align: center;
+  -webkit-box-align: center;
+      -ms-flex-align: center;
+          align-items: center;
+}
 .logo {
   display: block;
 }
@@ -478,34 +498,50 @@ figure img {
   margin-right: 1.5rem;
 }
 .unslider-nav {
-  display: -webkit-box;
-  display: -ms-flexbox;
-  display: flex;
-  color: #fff;
-  text-align: center;
+  width: 100%;
+  border-bottom: 1px solid #fff;
+  padding: 30px 0;
+  position: absolute;
+  top: 0;
 }
 .unslider-nav ol {
-  display: -webkit-box;
-  display: -ms-flexbox;
-  display: flex;
-  margin: auto;
+  list-style: none;
+  text-align: center;
+}
+.unslider-nav ol li {
+  display: inline-block;
+  cursor: pointer;
+  color: #fff;
+  margin: 0 20px;
+  position: relative;
+  z-index: 2;
+}
+.unslider-nav ol li::before {
+  background-color: #fff;
+  display: inline-block;
+  width: 30px;
+  height: 30px;
+  border-radius: 50%;
+  content: " ";
+  position: relative;
+  left: 24px;
+  top: 8px;
+  z-index: -1;
 }
 .unslider-arrow {
   position: absolute;
-  top: 20;
+  top: 50%;
+  -webkit-transform: translateY(-50%);
+          transform: translateY(-50%);
+}
+.unslider-active {
+  font-weight: 900;
 }
 .walkThrough {
-  padding-left: calc(50% - (1140px / 2));
-  padding-right: calc(50% - (1140px / 2));
   background-color: #008df2;
   -webkit-box-align: center;
       -ms-flex-align: center;
           align-items: center;
-}
-.walkThrough li {
-  display: -webkit-box;
-  display: -ms-flexbox;
-  display: flex;
 }
 .walkThrough-description {
   -webkit-box-align: center;
@@ -534,4 +570,13 @@ figure img {
 }
 .walkThrough-img img {
   width: 700px;
+}
+.walkThrough-slider {
+  position: relative;
+}
+.walkThrough-slider > ul {
+  margin-top: 100px;
+}
+.walkThrough .unslider {
+  position: relative;
 }

diff --git a/js/main.js b/js/main.js
@@ -658,7 +658,7 @@
 $(document).ready(function () {
   jQuery(document).ready(function ($) {
     $('.walkThrough-slider').unslider({
-      autoplay: true,
+      autoplay: false,
       infinite: true,
       nav: true,
       arrows: {

diff --git a/js/modules/walkThrough-slider.js b/js/modules/walkThrough-slider.js
@@ -1,7 +1,7 @@
 $(document).ready(function () {
   jQuery(document).ready(function($) {
     $('.walkThrough-slider').unslider({
-      autoplay: true,
+      autoplay: false,
       infinite: true,
       nav: true,
       arrows: {
